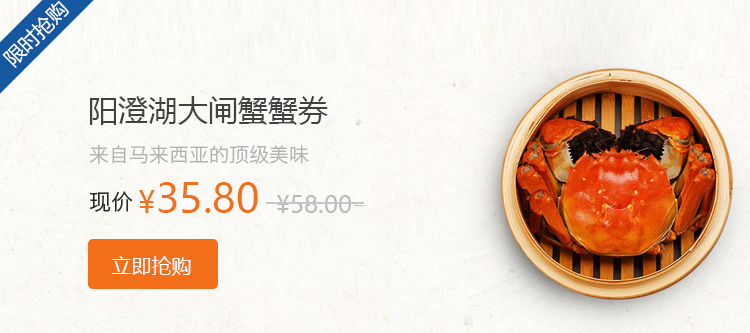
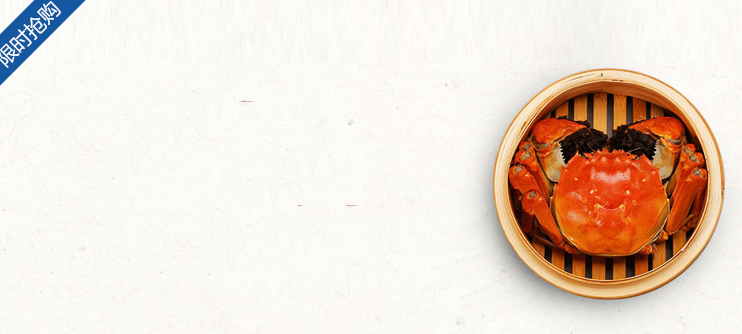
首页倒计时字样

diff --git a/babuluo/web/h5/pages/home/index.html b/babuluo/web/h5/pages/home/index.html
@@ -35,13 +35,29 @@
 
   <!-- 限时抢购 -->
   <div class="limit">
-    <a href="#"><img src="../../public/img/pic-1.png" style="height: auto;width: 100%;"></a>
-    <span class="time"></span>
+    <a href="#"><img src="../../public/img/pic-1.png" style="height: 162px;width: 100%;"></a>
+    <div class="limit-desc">
+      <div class="desc-text">
+        <p class="title">阳澄湖大闸蟹蟹券</p>
+        <p class="text">来自马来西亚的顶级美味</p>
+        <p class="price">现价<span class="cur-price">￥35.80</span> <del class="pre-price">￥58.80</del></p>
+        <a class="btn btn-buy">立即抢购</a>
+        <span class="limit-time">12:15:00</span>
+      </div>
+    </div>
   </div>
 
   <!-- 团购 -->
   <div class="group">
-    <a href="#"><img src="../../public/img/pic-2.png" style="height: auto;width: 100%;"></a>
+    <a href="#"><img src="../../public/img/pic-2.png" style="height: 162px;width: 100%;"></a>
+    <div class="group-desc">
+      <div class="desc-text">
+        <p class="title">阳澄湖大闸蟹蟹券</p>
+        <p class="text">来自马来西亚的顶级美味</p>
+        <p class="price">现价<span class="cur-price">￥35.80</span> <del class="pre-price">￥58.80</del></p>
+        <a class="btn btn-buy">立即抢购</a>
+      </div>
+    </div>
   </div>
 
   <!-- 活动专区 -->

diff --git a/babuluo/web/h5/public/css/style.css b/babuluo/web/h5/public/css/style.css
@@ -1347,23 +1347,54 @@ p {
 .home-index .col p{
   margin-top: 10px;
 }
-.home-index .limit{
+.home-index .limit,
+.home-index .group{
   position: relative;
 }
-.limit button{
+.home-index .limit-desc{
   position: absolute;
-  left: 60px;
-  bottom: 35px;
+  top: 40px;
+  left: 30px;
+  line-height: 1.5;
 }
-.home-index .limit .time{
+.home-index .group-desc{
+  position: absolute;
+  top: 40px;
+  right: 30px;
+  line-height: 1.5;
+}
+.home-index .desc-text .title{
+  font-size: 16px;
+}
+.home-index .desc-text .text{
+  color: rgb(179,179,179);
+  font-size: 10px;
+}
+.home-index .desc-text .price{
+  font-size: 12px;
+}
+.home-index .desc-text .price .cur-price{
+  font-size: 16px;
+  color: rgb(244,116,26);
+}
+.home-index .desc-text .price del{
+  color: rgb(179,179,179);
+}
+.home-index .desc-text .btn-buy{
+  background-color: rgb(244,116,26);
+  color: #fff;
+  font-size: 12px;
+  border-radius: 5px;
+}
+/*.home-index .limit .time{
   position: absolute;
   left: 50%;
   bottom: 28px;
   margin-left: -36px;
-}
-.home-index .limit .time span{
+}*/
+.home-index .desc-text .limit-time{
   color: rgb(241,116,26);
-  font-size: 16px;
+  font-size: 12px;
   padding-left: 21px;
   background:url("../img/time.png") no-repeat left center;
 }
